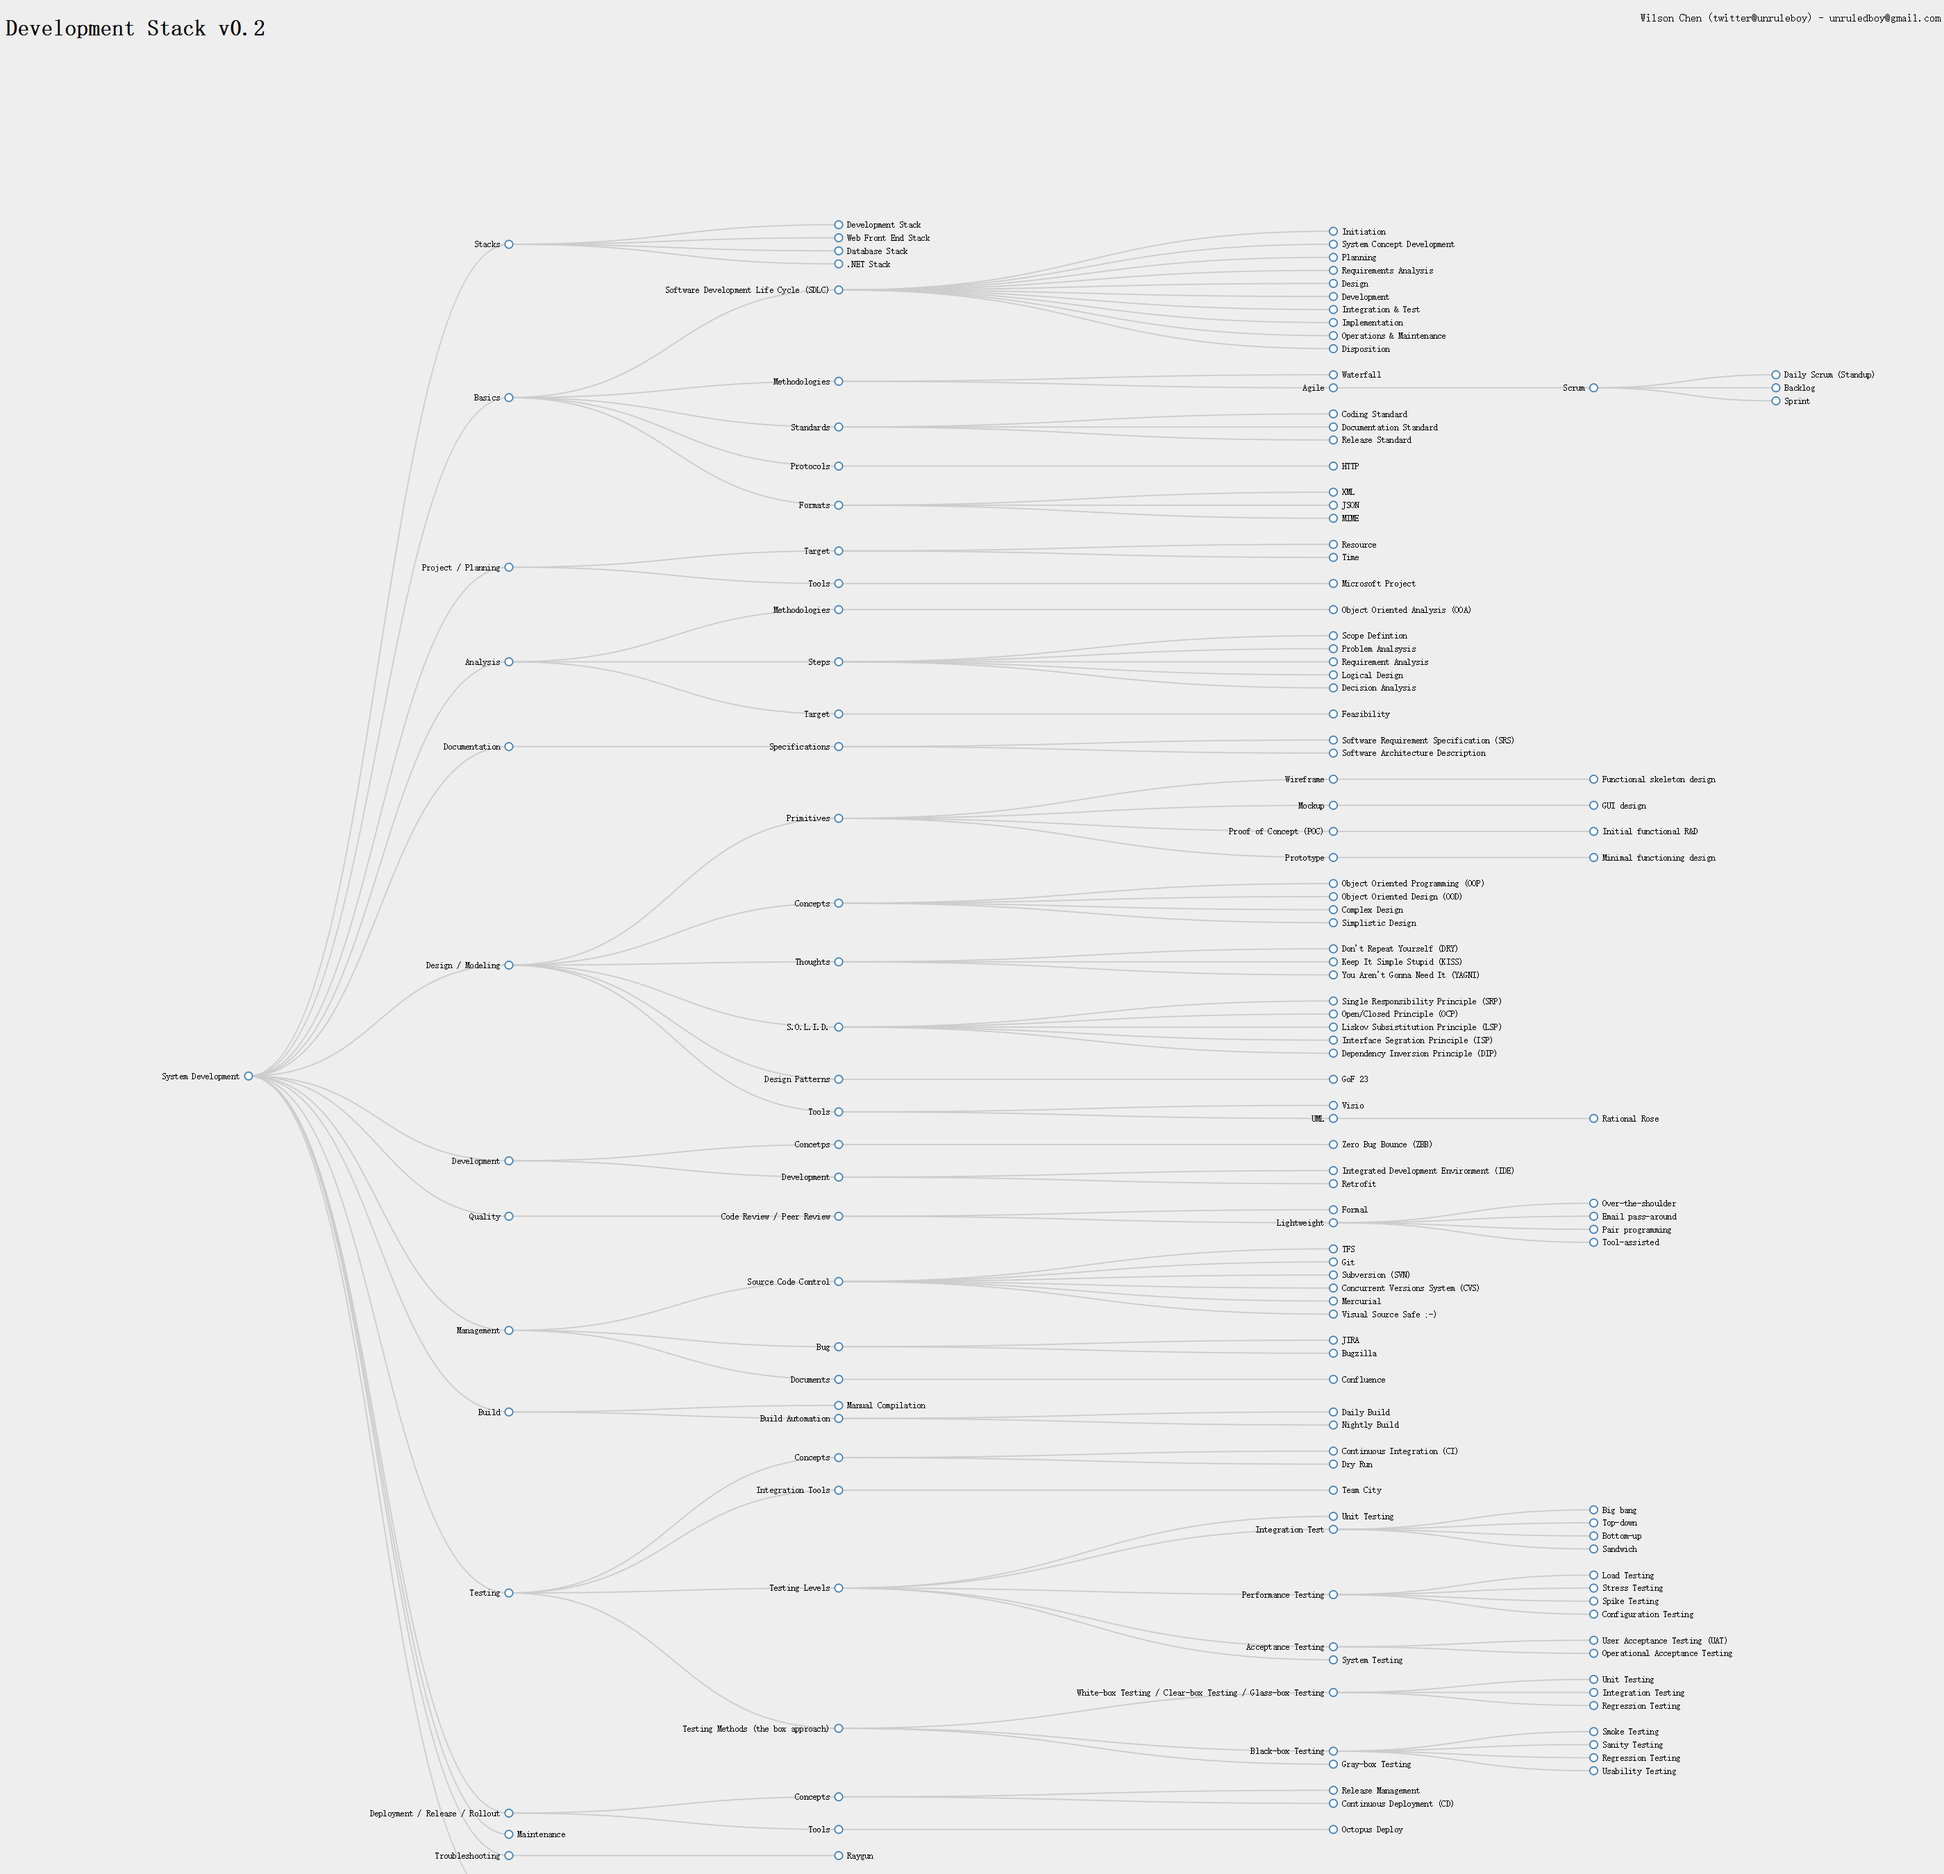
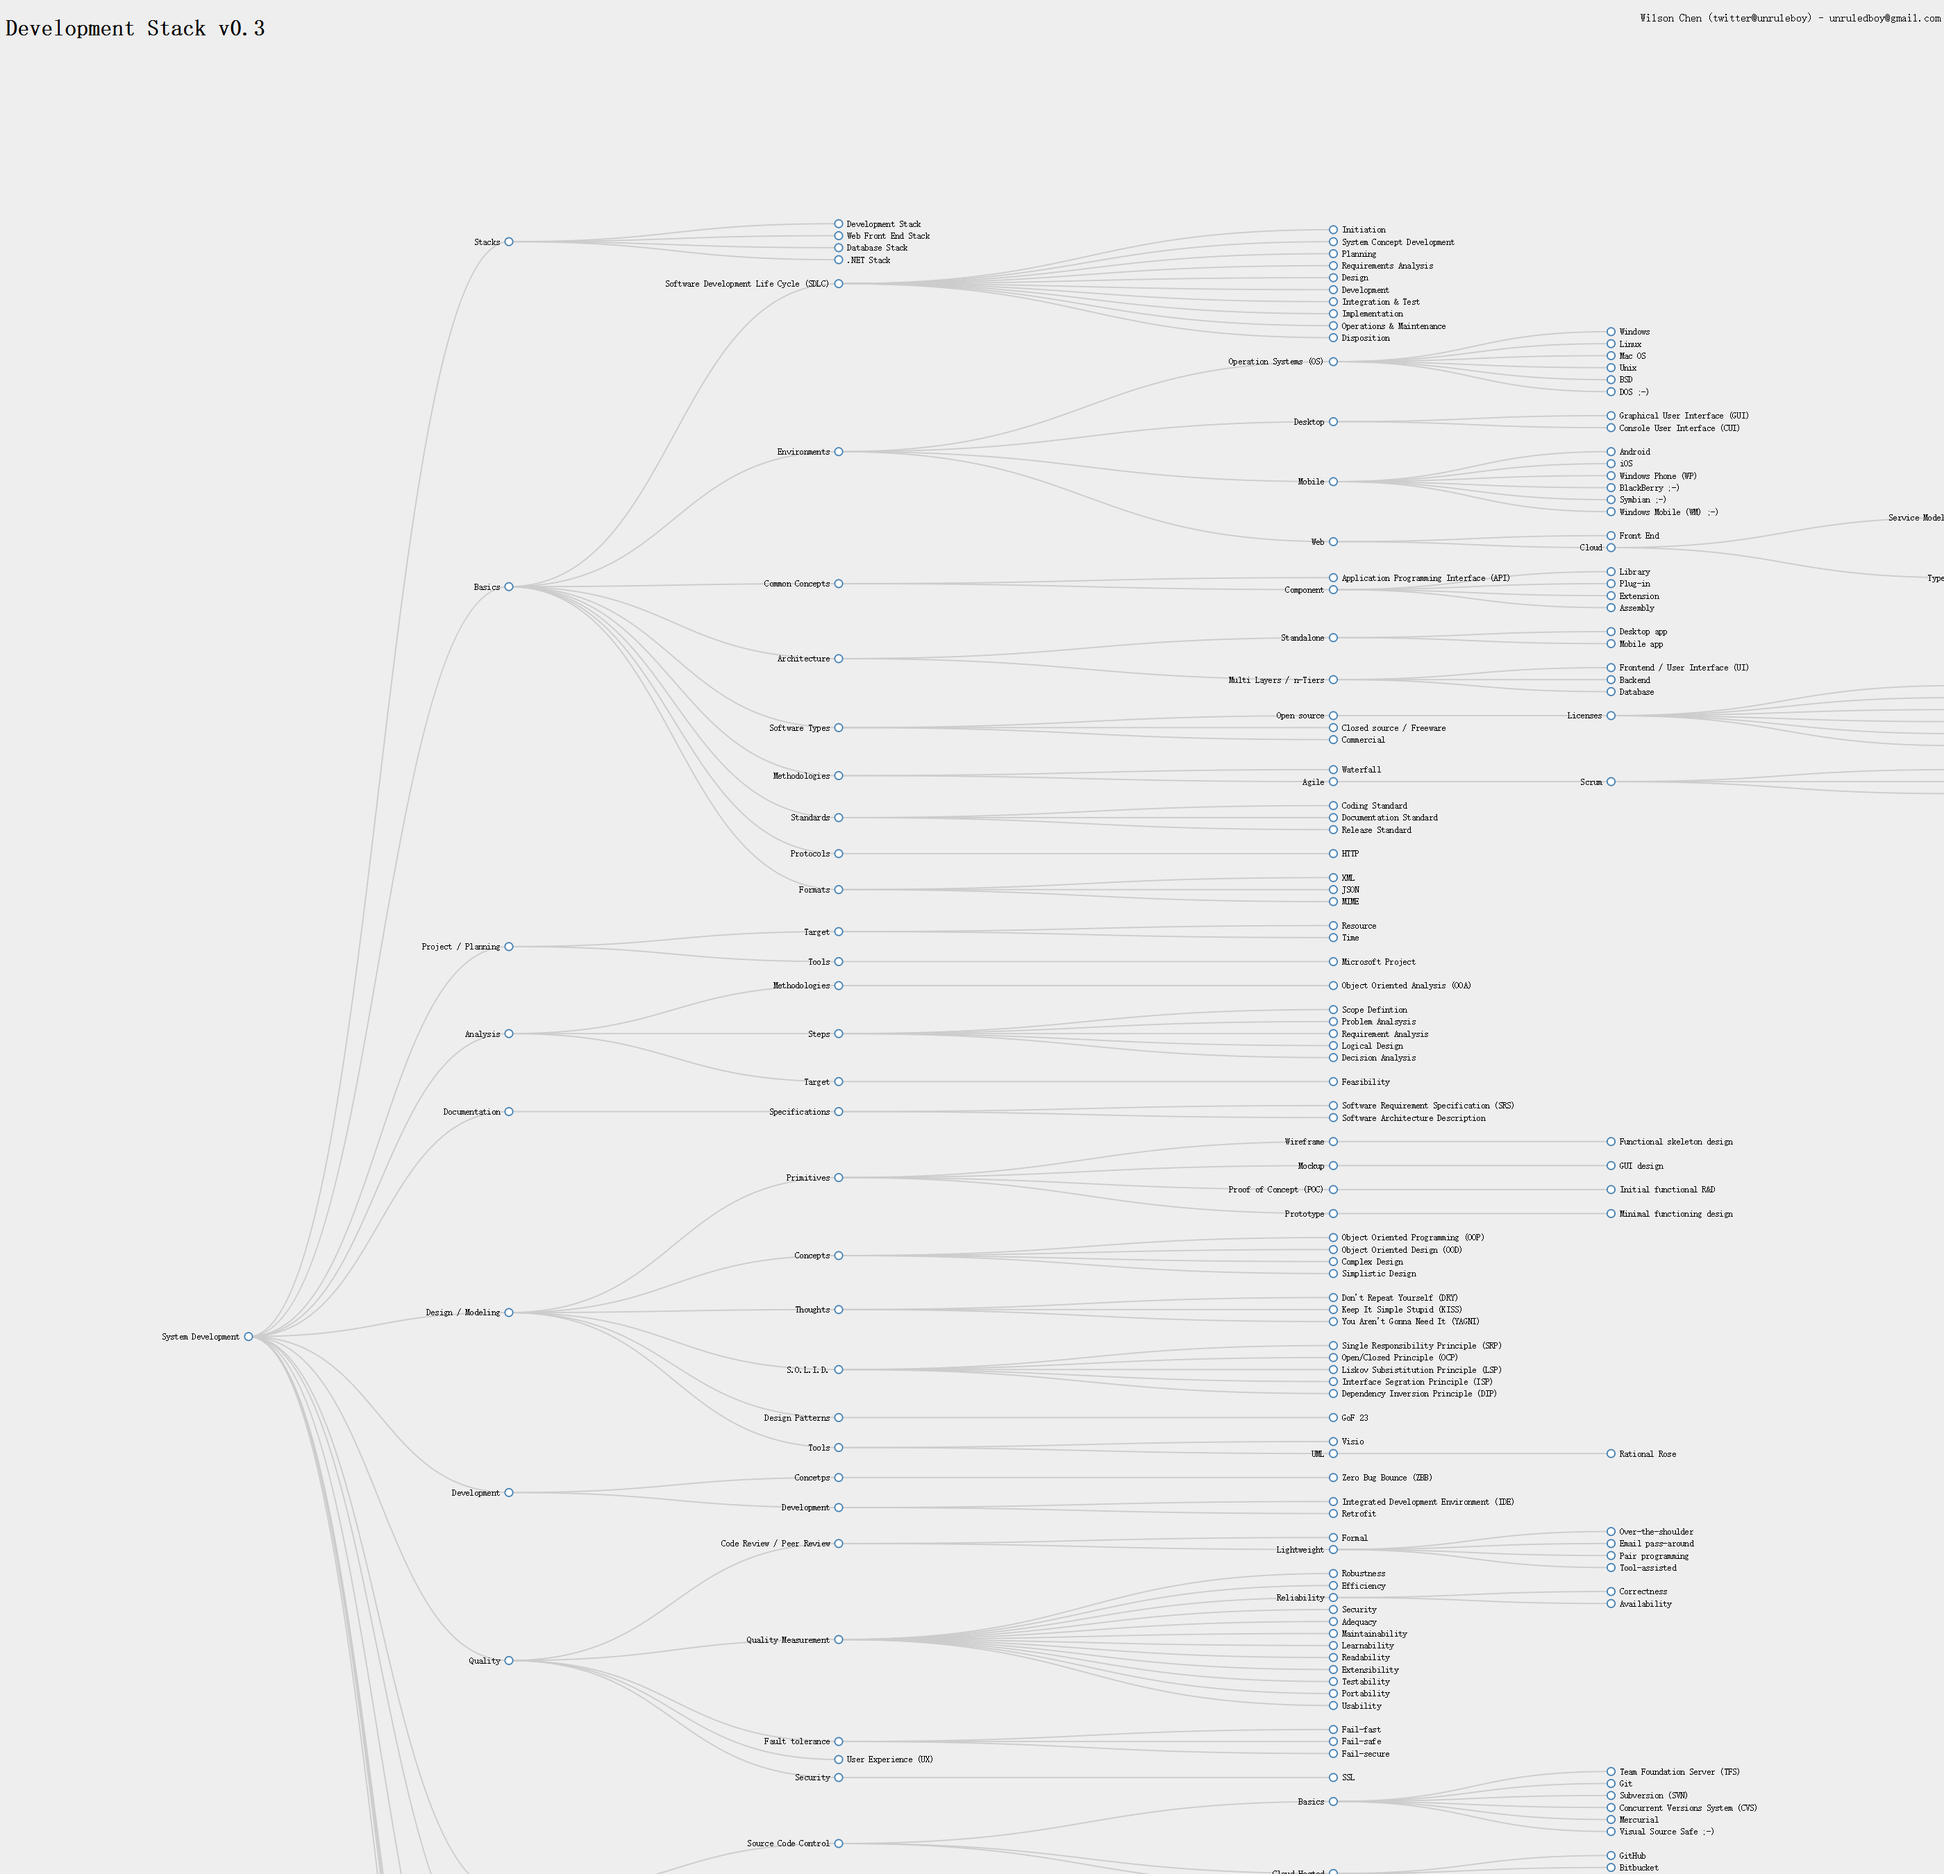
v0.3
added environments, OSs, desktop, mobile, web, cloud, architecture,
software types, quality measurement, cloud hosted source control

diff --git a/ux/DevelopmentStack.htm b/ux/DevelopmentStack.htm
@@ -95,7 +95,7 @@
     <div class="container">
         <header>
             <div class="left">
-                <h1><a href="https://github.com/unruledboy/DevelopmentStack" target="_blank">Development Stack v0.2</a></h1>
+                <h1><a href="https://github.com/unruledboy/DevelopmentStack" target="_blank">Development Stack v0.3</a></h1>
             </div>
             <div class="right">
                 <p><a href="http://github.com/unruledboy">Wilson Chen (twitter@unruleboy) - unruledboy@gmail.com</a></p>

diff --git a/README.md b/README.md
@@ -45,6 +45,67 @@ https://rawgit.com/unruledboy/DevelopmentStack/master/ux/DevelopmentStack.htm
 			- Implementation
 			- Operations & Maintenance
 			- Disposition
+		- Environments
+			- Operation Systems (OS)
+				- Windows
+				- Linux
+				- Mac OS
+				- Unix
+				- BSD
+				- DOS  ;-)
+			- Desktop
+				- Graphical User Interface (GUI)
+				- Console User Interface (CUI)
+			- Mobile
+				- Android
+				- iOS
+				- Windows Phone (WP)
+				- BlackBerry ;-)
+				- Symbian ;-)
+				- Windows Mobile (WM) ;-)
+			- Web
+				- Front End
+				- Cloud
+					- Service Models
+						- System/Software as a Service (SaaS)
+						- Platform as a Service (PaaS)
+						- Infrastructure as a Service (IaaS)
+						- Desktop as a Service (DaaS)
+						- Backend as a Service (BaaS)
+					- Types
+						- Private Cloud
+						- Public Cloud
+							- Providers
+								- Microsoft Azure
+								- Amazon Web Services (AWS)
+								- Google Cloud
+						- Hybrid Cloud
+		- Common Concepts
+			- Application Programming Interface (API)
+			- Component
+				- Library
+				- Plug-in
+				- Extension
+				- Assembly
+		- Architecture
+			- Standalone
+				- Desktop app
+				- Mobile app
+			- Multi Layers / n-Tiers
+				- Frontend / User Interface (UI)
+				- Backend
+				- Database
+		- Software Types
+			- Open source
+				- Licenses
+					- GNU General Public License (GPL)
+					- GNU Lesser General Public License (LGPL)
+					- Apache License
+					- MIT License
+					- Mozilla Public License
+					- Microsoft Public License (MS-PL)
+			- Closed source / Freeware
+			- Commercial
 		- Methodologies
 			- Waterfall
 			- Agile
@@ -128,14 +189,43 @@ https://rawgit.com/unruledboy/DevelopmentStack/master/ux/DevelopmentStack.htm
 				- Email pass-around
 				- Pair programming
 				- Tool-assisted
+		- Quality Measurement
+			- Robustness
+			- Efficiency
+			- Reliability
+				- Correctness
+				- Availability
+			- Security
+			- Adequacy
+			- Maintainability
+			- Learnability
+			- Readability
+			- Extensibility
+			- Testability
+			- Portability
+			- Usability
+		- Fault tolerance
+			- Fail-fast
+			- Fail-safe
+			- Fail-secure
+		- User Experience (UX)
+		- Security
+			- SSL
 	- Management
 		- Source Code Control
-			- TFS
-			- Git
-			- Subversion (SVN)
-			- Concurrent Versions System (CVS)
-			- Mercurial
-			- Visual Source Safe ;-)
+			- Basics
+				- Team Foundation Server (TFS)
+				- Git
+				- Subversion (SVN)
+				- Concurrent Versions System (CVS)
+				- Mercurial
+				- Visual Source Safe ;-)
+			- Cloud Hosted
+				- GitHub
+				- Bitbucket
+				- CodePlex
+				- SourceForge ;-)
+			- Escrow
 		- Bug
 			- JIRA
 			- Bugzilla
